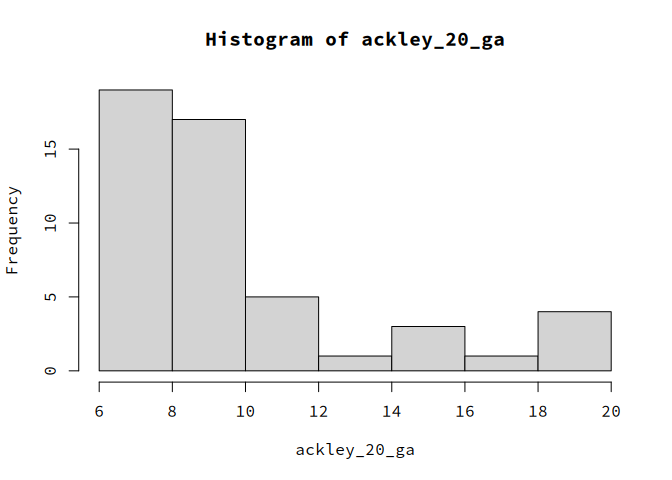
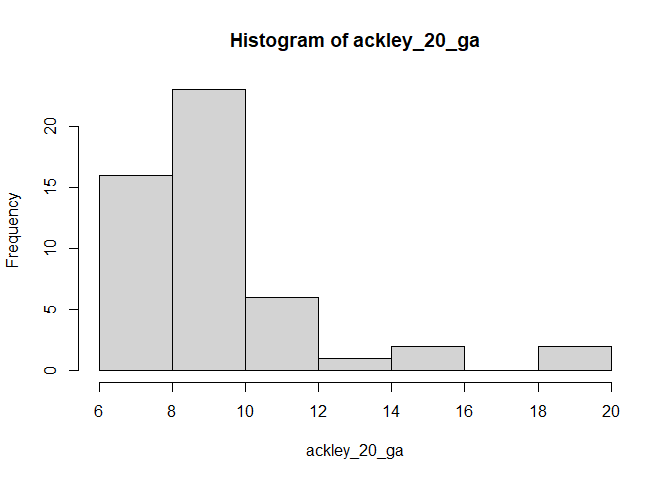
EOD sroda

diff --git a/docs/README.md b/docs/README.md
@@ -54,7 +54,7 @@ algorytm GA (dla `iters` wywołań)
             return(res$best.y)
         }
 
-        return(mc_replicate(iters, single_ga()))
+        return(replicate(iters, single_ga()))
     }
 
 ------------------------------------------------------------------------
@@ -65,7 +65,6 @@ algorytm GA (dla `iters` wywołań)
 
     ackley_2 <- makeAckleyFunction(2)
     ackley_2_ga <- calculate_ga(ackley_2, 50)
-
     ackley_2_prs <- calculate_prs(ackley_2, 50)
 
 ### GA
@@ -83,11 +82,11 @@ Podsumowanie:
     summary(ackley_2_ga)
 
     ##    Min. 1st Qu.  Median    Mean 3rd Qu.    Max. 
-    ## 0.01486 0.15179 0.34969 0.54694 0.68592 2.37585
+    ## 0.01351 0.20091 0.52122 0.71032 0.90795 6.10501
 
 Średnia wartość:
 
-    ## [1] 0.5469414
+    ## [1] 0.7103152
 
 ### PRS
 
@@ -104,17 +103,16 @@ Podsumowanie:
     summary(ackley_2_prs)
 
     ##    Min. 1st Qu.  Median    Mean 3rd Qu.    Max. 
-    ##  0.8964  3.2435  4.0078  4.0499  5.2466  7.1488
+    ##   1.043   3.272   4.283   4.175   4.747   6.557
 
 Średnia wartość:
 
-    ## [1] 4.049896
+    ## [1] 4.175376
 
 ## Dla dwóch wymiarów - Funkcja Rastrigina
 
     rastrigin_2 <- makeRastriginFunction(2)
     rastrigin_2_ga <- calculate_ga(rastrigin_2, 50)
-
     rastrigin_2_prs <- calculate_prs(rastrigin_2, 50)
 
 ### GA
@@ -132,11 +130,11 @@ Podsumowanie:
     summary(rastrigin_2_ga)
 
     ##    Min. 1st Qu.  Median    Mean 3rd Qu.    Max. 
-    ##  0.1221  0.9320  1.2760  1.5608  1.9742  4.6783
+    ## 0.04836 0.71105 1.31889 1.52012 2.05221 5.28956
 
 Średnia wartość:
 
-    ## [1] 1.560783
+    ## [1] 1.520118
 
 ### PRS
 
@@ -153,17 +151,16 @@ Podsumowanie:
     summary(rastrigin_2_prs)
 
     ##    Min. 1st Qu.  Median    Mean 3rd Qu.    Max. 
-    ##  0.6852  1.2421  1.8017  1.9249  2.2943  4.2690
+    ##  0.1523  1.0818  1.7330  1.9465  2.5536  5.1506
 
 Średnia wartość:
 
-    ## [1] 1.924854
+    ## [1] 1.946462
 
 ## Dla dziesięciu wymiarów - Funkcja Ackley’a
 
     ackley_10 <- makeAckleyFunction(10)
     ackley_10_ga <- calculate_ga(ackley_10, 50)
-
     ackley_10_prs <- calculate_prs(ackley_10, 50)
 
 ### GA
@@ -181,11 +178,11 @@ Podsumowanie:
     summary(ackley_10_ga)
 
     ##    Min. 1st Qu.  Median    Mean 3rd Qu.    Max. 
-    ##   2.667   4.406   4.708   4.841   5.260   6.565
+    ##   3.248   4.592   5.295   5.700   5.740  19.868
 
 Średnia wartość:
 
-    ## [1] 4.841204
+    ## [1] 5.70045
 
 ### PRS
 
@@ -202,17 +199,16 @@ Podsumowanie:
     summary(ackley_10_prs)
 
     ##    Min. 1st Qu.  Median    Mean 3rd Qu.    Max. 
-    ##   17.31   17.94   18.24   18.30   18.62   19.40
+    ##   16.35   17.82   18.37   18.18   18.74   19.10
 
 Średnia wartość:
 
-    ## [1] 18.29903
+    ## [1] 18.18314
 
 ## Dla dziesięciu wymiarów - Funkcja Rastringa
 
     rastrigin_10 <- makeRastriginFunction(10)
     rastrigin_10_ga <- calculate_ga(rastrigin_10, 50)
-
     rastrigin_10_prs <- calculate_prs(rastrigin_10, 50)
 
 ### GA
@@ -230,11 +226,11 @@ Podsumowanie:
     summary(rastrigin_10_ga)
 
     ##    Min. 1st Qu.  Median    Mean 3rd Qu.    Max. 
-    ##   48.73   64.95   71.22   73.01   81.01   95.08
+    ##   48.11   64.28   73.30   74.57   83.76  113.35
 
 Średnia wartość:
 
-    ## [1] 73.01218
+    ## [1] 74.57171
 
 ### PRS
 
@@ -251,17 +247,16 @@ Podsumowanie:
     summary(rastrigin_10_prs)
 
     ##    Min. 1st Qu.  Median    Mean 3rd Qu.    Max. 
-    ##   62.71   79.63   84.68   84.42   92.39  100.56
+    ##   61.67   78.60   86.10   85.63   92.34  102.65
 
 Średnia wartość:
 
-    ## [1] 84.41884
+    ## [1] 85.62977
 
 ## Dla dwudziestu wymiarów - Funkcja Ackley’a
 
     ackley_20 <- makeAckleyFunction(20)
     ackley_20_ga <- calculate_ga(ackley_20, 50)
-
     ackley_20_prs <- calculate_prs(ackley_20, 50)
 
 ### GA
@@ -279,11 +274,11 @@ Podsumowanie:
     summary(ackley_20_ga)
 
     ##    Min. 1st Qu.  Median    Mean 3rd Qu.    Max. 
-    ##   6.117   7.573   8.574   9.896  10.996  19.722
+    ##   6.083   7.825   8.592   9.256   9.577  19.517
 
 Średnia wartość:
 
-    ## [1] 9.896396
+    ## [1] 9.255787
 
 ### PRS
 
@@ -300,17 +295,16 @@ Podsumowanie:
     summary(ackley_20_prs)
 
     ##    Min. 1st Qu.  Median    Mean 3rd Qu.    Max. 
-    ##   18.86   19.65   19.90   19.81   20.05   20.24
+    ##   19.19   19.76   19.97   19.91   20.10   20.26
 
 Średnia wartość:
 
-    ## [1] 19.80556
+    ## [1] 19.90994
 
 ## Dla dwudziestu wymiarów - Funkcja Rastringa
 
     rastrigin_20 <- makeRastriginFunction(20)
     rastrigin_20_ga <- calculate_ga(rastrigin_20, 50)
-
     rastrigin_20_prs <- calculate_prs(rastrigin_20, 50)
 
 ### GA
@@ -328,11 +322,11 @@ Podsumowanie:
     summary(rastrigin_20_ga)
 
     ##    Min. 1st Qu.  Median    Mean 3rd Qu.    Max. 
-    ##   136.5   185.5   197.2   195.6   208.2   237.2
+    ##   152.5   183.9   197.5   198.1   210.8   231.9
 
 Średnia wartość:
 
-    ## [1] 195.5636
+    ## [1] 198.0576
 
 ### PRS
 
@@ -349,8 +343,8 @@ Podsumowanie:
     summary(rastrigin_20_prs)
 
     ##    Min. 1st Qu.  Median    Mean 3rd Qu.    Max. 
-    ##   157.8   221.3   231.6   228.8   239.6   258.0
+    ##   160.9   216.8   232.8   227.6   240.5   261.4
 
 Średnia wartość:
 
-    ## [1] 228.8318
+    ## [1] 227.6346
